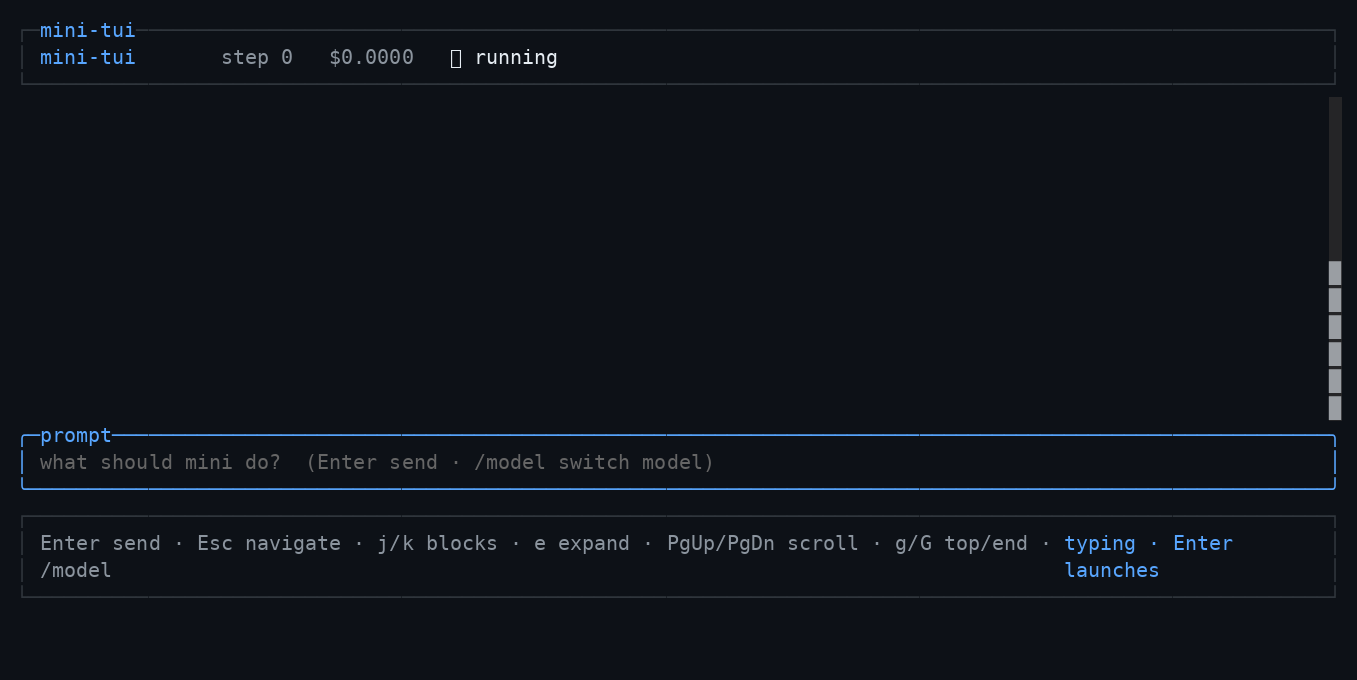
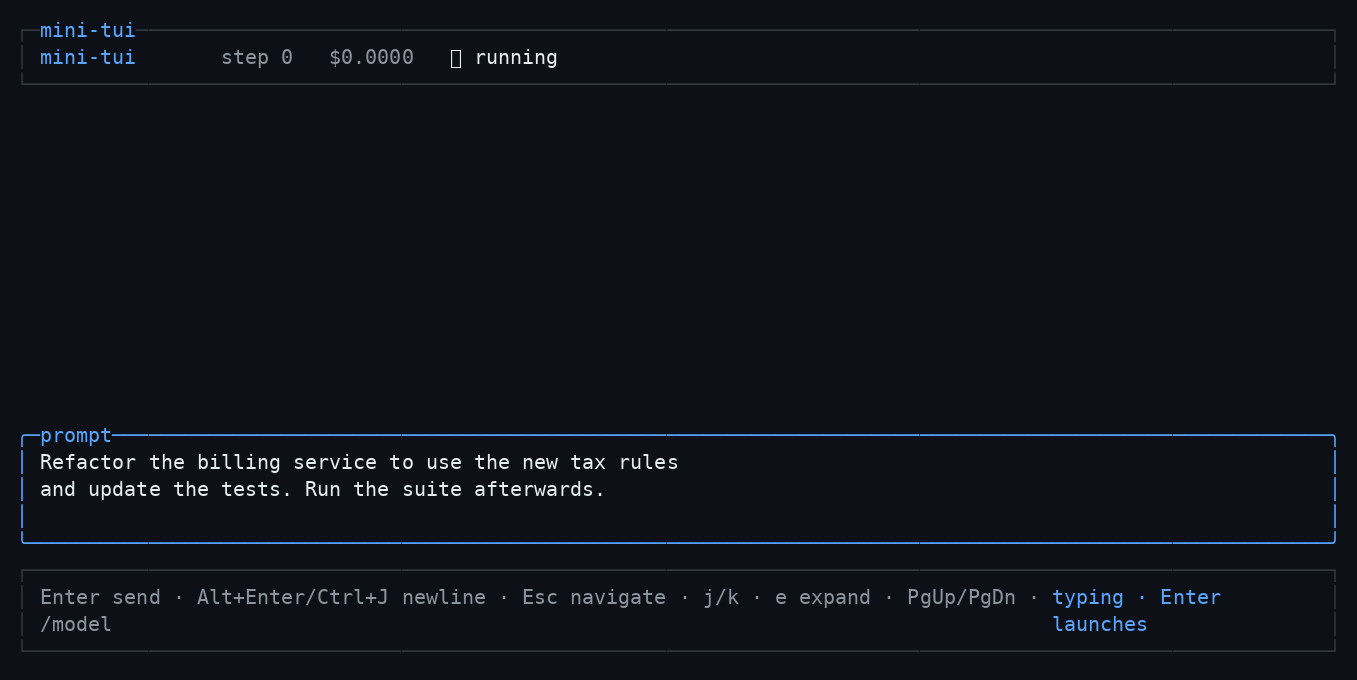
feat: multi-line prompt (Enter sends, Alt+Enter/Ctrl+J newline)
- textarea prompt: multi-line editing with Claude-Code-style submit binding
- MESSAGE control lines are JSON-quoted so multi-line prompts survive the
  line-based protocol (harness patch decodes them)
- screenshots regenerated with the multi-line prompt; README keys updated

diff --git a/src/ui/components/PromptBar.tsx b/src/ui/components/PromptBar.tsx
@@ -1,15 +1,25 @@
 import { useRef } from "react";
-import type { InputRenderable } from "@opentui/core";
+import type { TextareaRenderable } from "@opentui/core";
 
 import { colors } from "../theme";
 
-/** Claude-Code-style prompt bar pinned to the bottom: always one Enter away. */
+// Claude-Code style: Enter sends; Alt+Enter / Ctrl+J insert a newline (Shift+Enter too,
+// on terminals that report it through the kitty keyboard protocol).
+const PROMPT_KEY_BINDINGS = [
+  { name: "return", shift: false, ctrl: false, meta: false, action: "submit" },
+  { name: "return", meta: true, action: "newline" },
+  { name: "return", shift: true, action: "newline" },
+  { name: "kpenter", action: "submit" },
+  { name: "linefeed", action: "newline" },
+];
+
+/** Multi-line prompt bar pinned to the bottom: always one Enter away. */
 export function PromptBar(props: {
   focused: boolean;
   busy: boolean;
   onSend: (text: string) => void;
 }) {
-  const inputRef = useRef<InputRenderable>(null);
+  const ref = useRef<TextareaRenderable>(null);
   const hint = props.busy ? "continue the conversation…" : "what should mini do?";
   return (
     <box
@@ -19,18 +29,19 @@ export function PromptBar(props: {
       titleColor={props.focused ? colors.accent : colors.dim}
       paddingX={1}
     >
-      <input
-        ref={inputRef}
+      <textarea
+        ref={ref}
         focused={props.focused}
-        placeholder={`${hint}  (Enter send · /model switch model)`}
+        height={3}
+        keyBindings={PROMPT_KEY_BINDINGS as never}
+        placeholder={`${hint}  (Enter send · Alt+Enter/Ctrl+J newline · /model switch model)`}
         textColor={colors.text}
         backgroundColor={colors.bg}
-        cursorColor={colors.accent}
-        onSubmit={((value: string | { value?: string }) => {
-          const text = typeof value === "string" ? value : String(value?.value ?? "");
-          if (inputRef.current) inputRef.current.value = "";
+        onSubmit={() => {
+          const text = (ref.current?.editorView.getText() ?? "").replace(/\n+$/, "");
+          ref.current?.setText("");
           props.onSend(text);
-        }) as never}
+        }}
       />
     </box>
   );

diff --git a/tests/render.test.tsx b/tests/render.test.tsx
@@ -93,7 +93,7 @@ describe("App rendering", () => {
     setup.renderer.destroy();
   });
 
-  test("prompt: Enter sends the typed task to onSend", async () => {
+  test("prompt: multi-line text is sent on Enter", async () => {
     const sent: string[] = [];
     const setup = await testRender(
       <App cwd="." events={[]} info={{ cost: 0, apiCalls: 0 }} onSend={(text) => sent.push(text)} onQuit={() => {}} />,
@@ -102,12 +102,12 @@ describe("App rendering", () => {
     await setup.renderOnce();
     expect(setup.captureCharFrame()).toContain("prompt"); // the prompt bar is always there
 
-    await setup.mockInput.typeText("fix the failing test");
+    await setup.mockInput.typeText("line one\nline two"); // \n inserts a newline (Ctrl+J semantics)
     await act(async () => {
-      setup.mockInput.pressEnter();
+      setup.mockInput.pressEnter(); // send
     });
     await setup.renderOnce();
-    expect(sent).toEqual(["fix the failing test"]);
+    expect(sent).toEqual(["line one\nline two"]);
     setup.renderer.destroy();
   });
 

diff --git a/scripts/capture-scenes.test.tsx b/scripts/capture-scenes.test.tsx
@@ -138,8 +138,12 @@ test.skipIf(!CAPTURE)("capture screenshot scenes", async () => {
   await setup.renderOnce();
   save("final-answer", setup);
 
-  // 4) the prompt (empty transcript, ready to type)
+  // 4) the multi-line prompt (empty transcript, ready to type)
   setup = await testRender(<App cwd="/home/jaime/project" onSend={() => {}} onQuit={() => {}} />, { width: 110, height: 24 });
+  await setup.renderOnce();
+  await setup.mockInput.typeText(
+    "Refactor the billing service to use the new tax rules\nand update the tests. Run the suite afterwards.",
+  );
   await setup.renderOnce();
   save("prompt", setup);
 });

diff --git a/src/ui/components/StatusBar.tsx b/src/ui/components/StatusBar.tsx
@@ -3,7 +3,7 @@ import { colors } from "../theme";
 export function StatusBar(props: { hint?: string }) {
   return (
     <box borderStyle="single" borderColor={colors.border} paddingX={1} flexDirection="row" gap={2}>
-      <text fg={colors.dim}>Enter send · Esc navigate · j/k blocks · e expand · PgUp/PgDn scroll · g/G top/end · /model</text>
+      <text fg={colors.dim}>Enter send · Alt+Enter/Ctrl+J newline · Esc navigate · j/k · e expand · PgUp/PgDn · /model</text>
       {props.hint ? <text fg={colors.accent}>{props.hint}</text> : null}
     </box>
   );

diff --git a/src/mini/spawn.ts b/src/mini/spawn.ts
@@ -83,8 +83,8 @@ export function spawnMini(spec: TaskSpec): MiniRun {
       appendFileSync(session.controlPath, `MODEL ${model}\n`);
     },
     sendUserMessage(text: string) {
-      // Continues the same conversation from the agent's next step (or at exit hold).
-      appendFileSync(session.controlPath, `MESSAGE ${text.replace(/\s*\n\s*/g, " ")}\n`);
+      // JSON-quoted so multi-line prompts survive the line-based protocol.
+      appendFileSync(session.controlPath, `MESSAGE ${JSON.stringify(text)}\n`);
     },
   };
 }

diff --git a/README.md b/README.md
@@ -11,9 +11,9 @@ outputs — into cards, badges and banners. The harness runs completely untouche
 
 ## Features
 
-- **Prompt bar, Claude-Code style.** A prompt input pinned to the bottom of the screen: type your
-  task, hit Enter, and keep typing follow-ups while the agent works (or after it submits) — they
-  continue the *same* conversation.
+- **Prompt bar, Claude-Code style.** A multi-line prompt input pinned to the bottom of the screen:
+  type your task (`Alt+Enter` / `Ctrl+J` for a new line), hit Enter, and keep typing follow-ups
+  while the agent works (or after it submits) — they continue the *same* conversation.
 
   ![prompt bar](docs/screenshots/prompt.png)
 
@@ -77,6 +77,7 @@ Run artifacts live under `~/.config/mini-tui/runs/<timestamp>-<slug>/`
 | Key | Action |
 | --- | --- |
 | `Enter` | send the prompt (starts a task, or continues the running conversation) |
+| `Alt+Enter` / `Ctrl+J` | insert a newline in the prompt (`Shift+Enter` too where the terminal reports it) |
 | `Esc` | leave the prompt and navigate the transcript |
 | `i` / `Enter` | (navigation mode) jump back to the prompt |
 | `/model` | typed in the prompt: open the model picker (or `/model <id>`) |

diff --git a/docs/mini-swe-agent-patches.md b/docs/mini-swe-agent-patches.md
@@ -89,9 +89,15 @@ def _drain_control(self) -> tuple[str | None, list[str]]:
         if line.startswith("MODEL "):
             model_name = line[len("MODEL ") :].strip() or None
         elif line.startswith("MESSAGE "):
-            text = line[len("MESSAGE ") :].strip()
-            if text:
-                messages.append(text)
+            payload = line[len("MESSAGE ") :].strip()
+            if payload.startswith('"'):
+                # JSON-quoted so multi-line prompts survive the line-based protocol.
+                try:
+                    payload = json.loads(payload)
+                except ValueError:
+                    pass
+            if payload:
+                messages.append(str(payload))
     return model_name, messages
 
 @staticmethod
